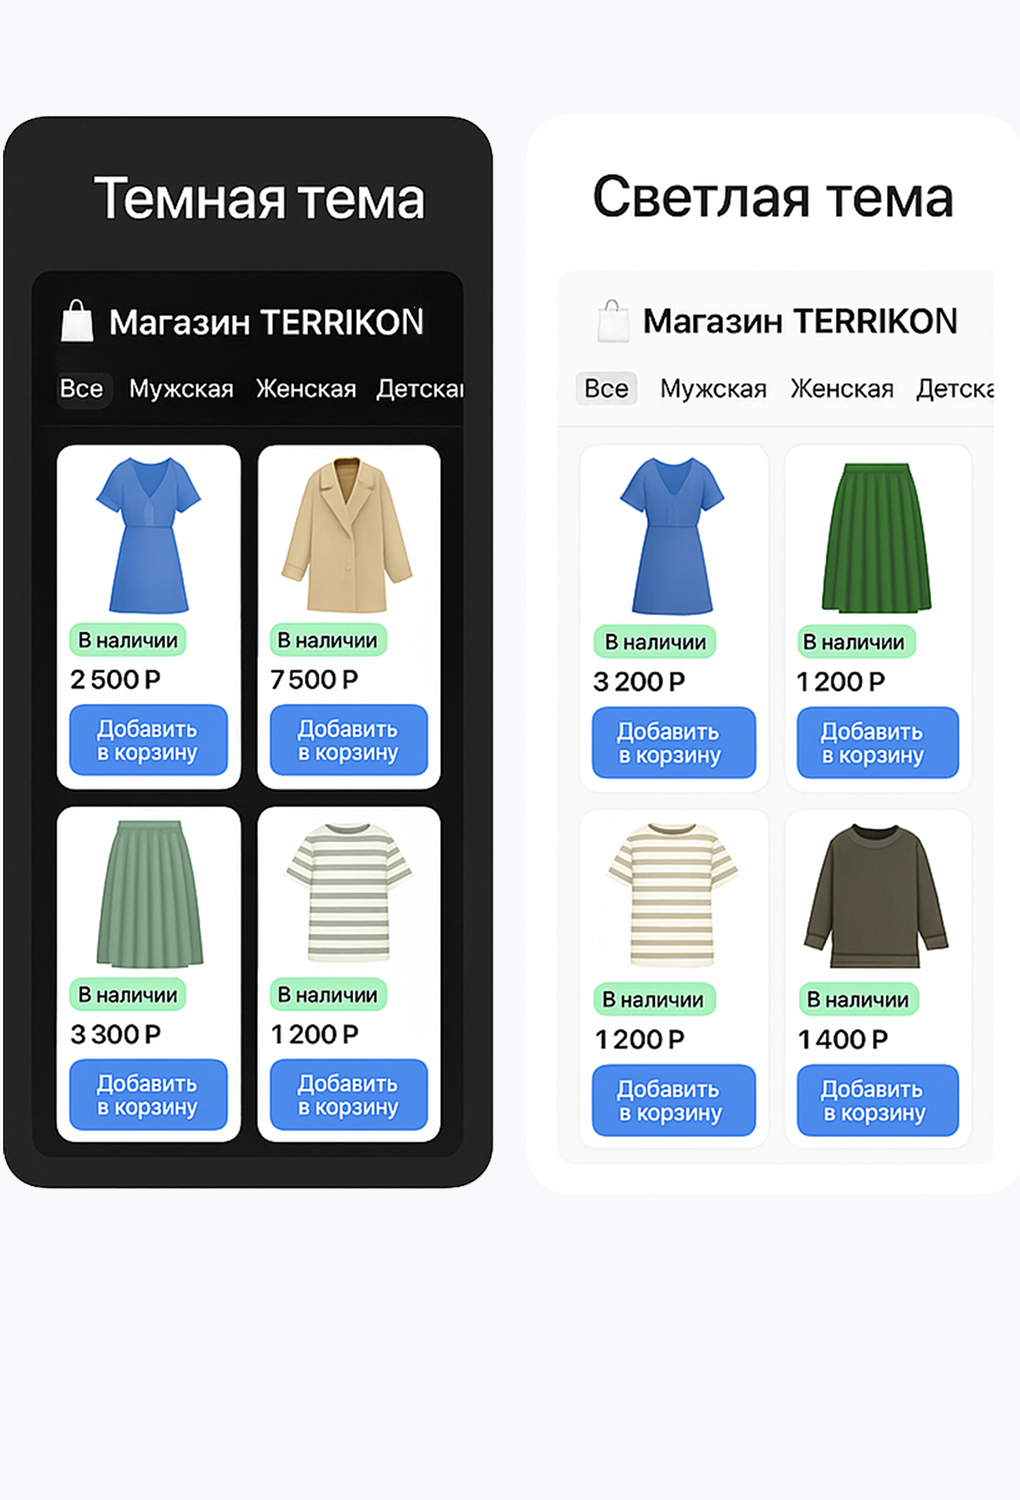
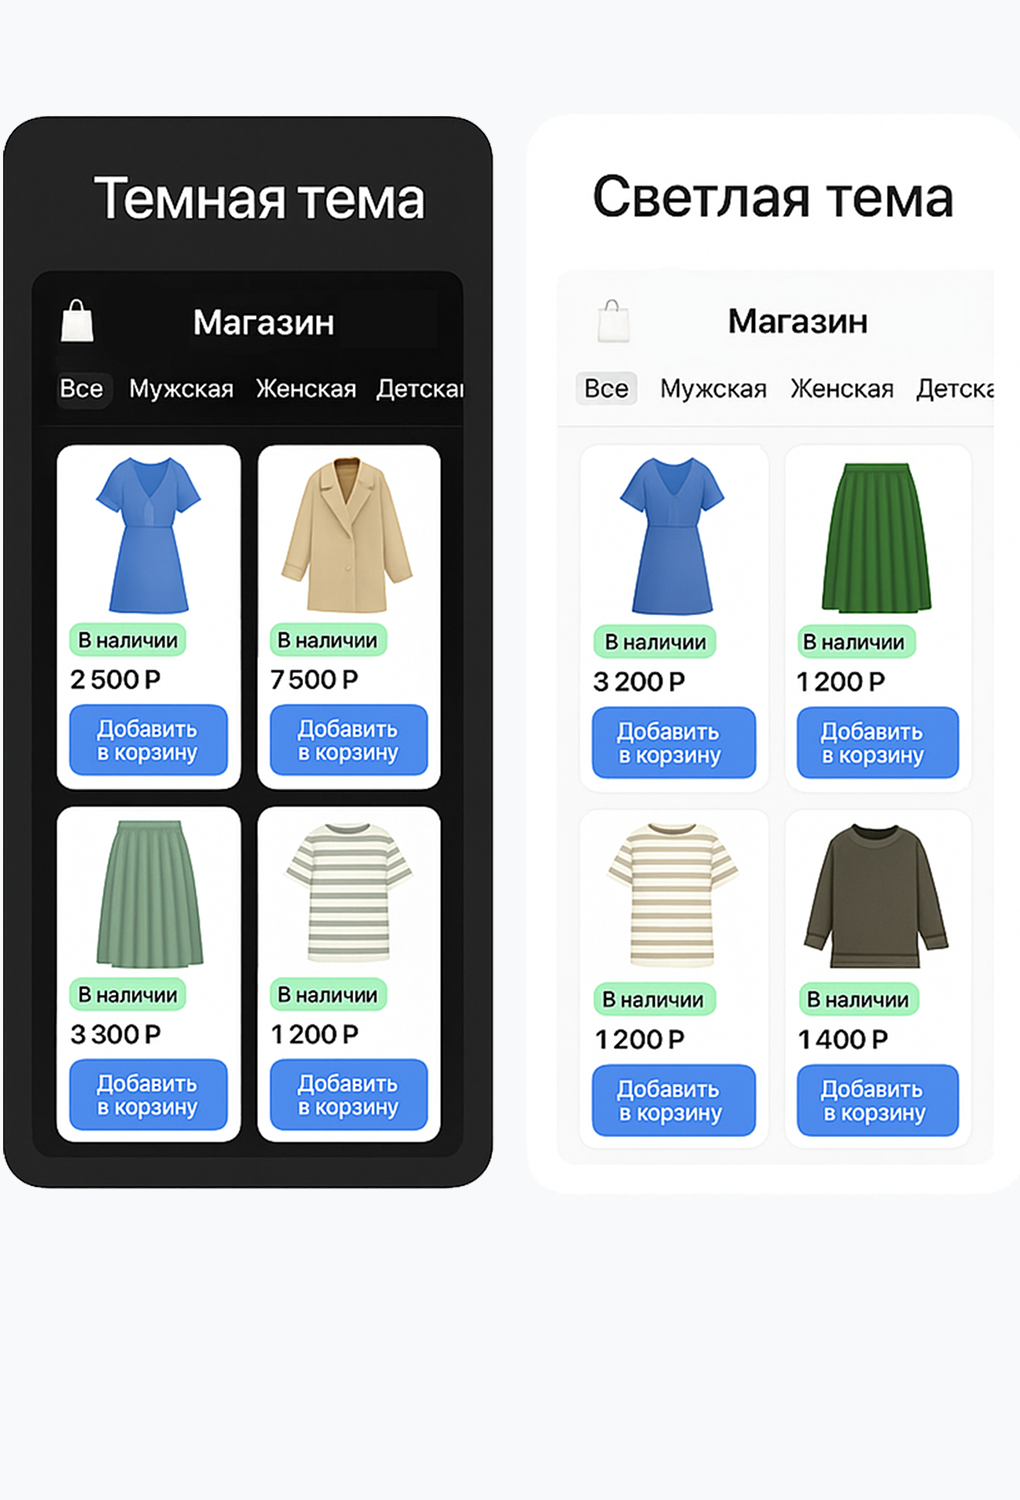
Add files via upload

Changed region(s): [[0.6382, 0.184, 0.9422, 0.2453], [0.1216, 0.184, 0.4255, 0.2453]]

diff --git a/index.html b/index.html
@@ -505,7 +505,7 @@ body.dark .nav-item.active {
   <div id="expand-banner">Разверните приложение на весь экран</div>
 
   <!-- Заголовок -->
-<div id="page-title">🛍 Магазин TERRIKОN</div>
+<div id="page-title">🛍 Магазин </div>
 
 
   <!-- Главное меню категорий -->
@@ -696,7 +696,7 @@ if (!localStorage.getItem('theme')) {
     function loadShop() {
       document.getElementById('category-menu').style.display = 'flex';
       document.getElementById('subcategory-menu').style.display = 'none';
-      document.getElementById('page-title').innerText = '🛍 Магазин TERRIKОN';
+      document.getElementById('page-title').innerText = '🛍 Магазин ';
       fetchItems()
         .then(renderItems)
         .catch(() => {
